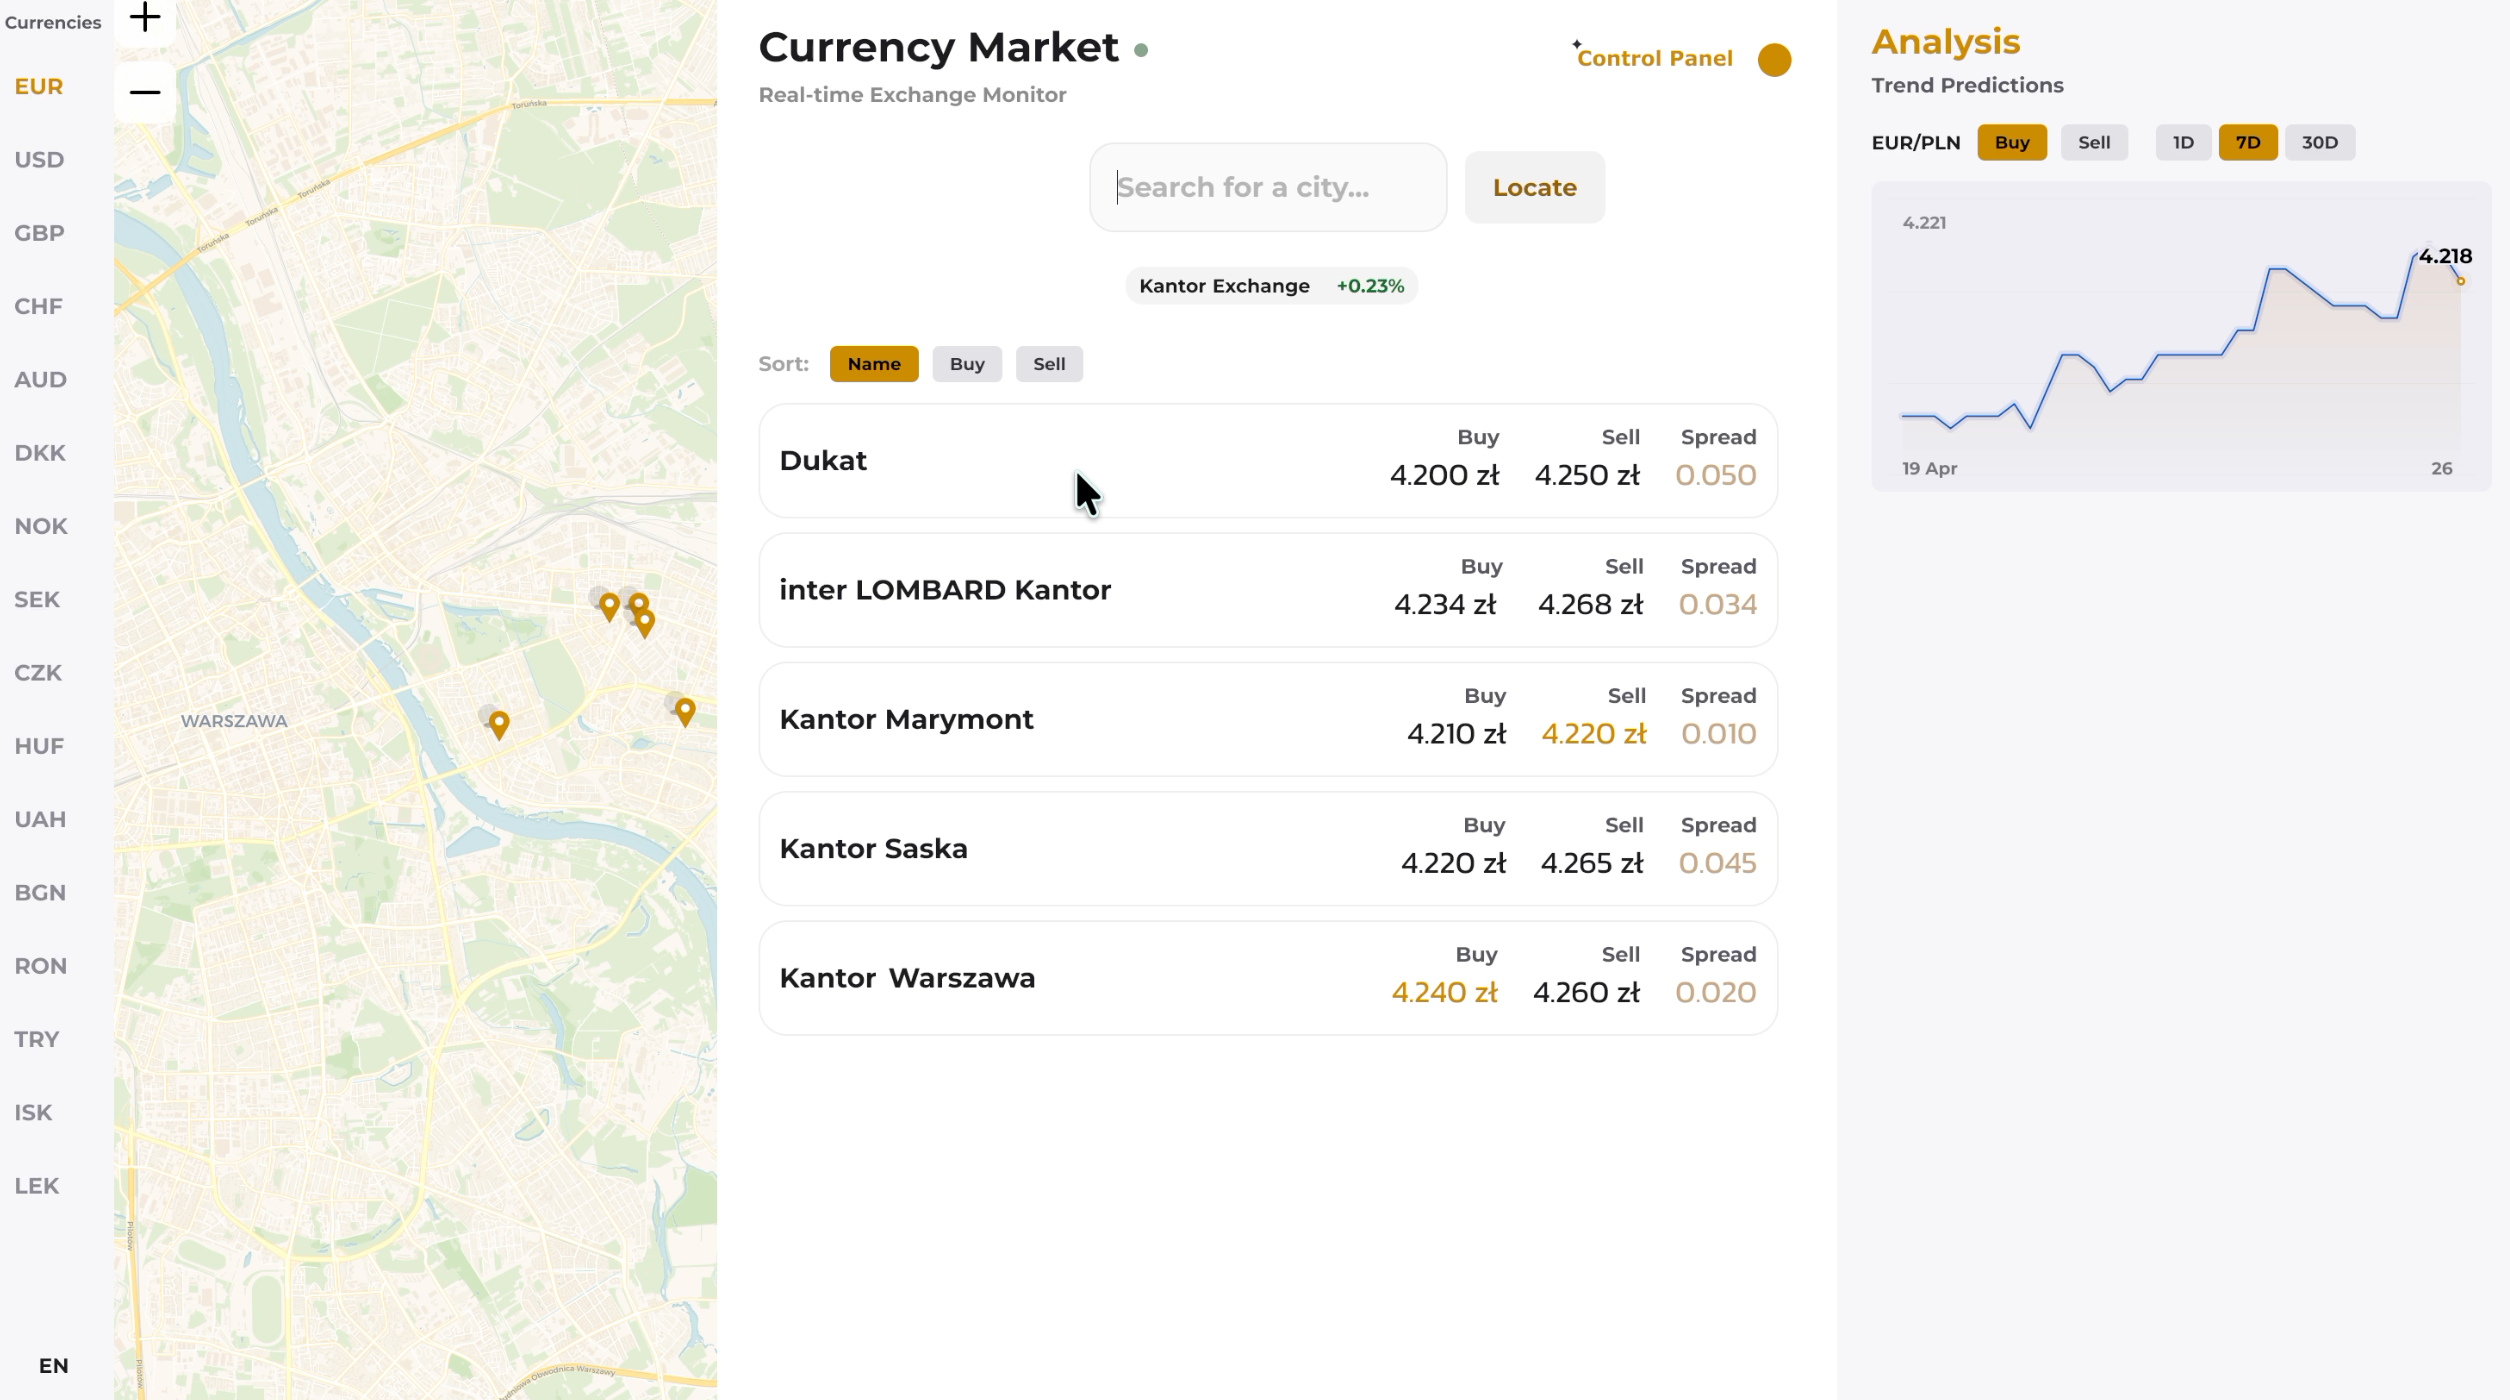
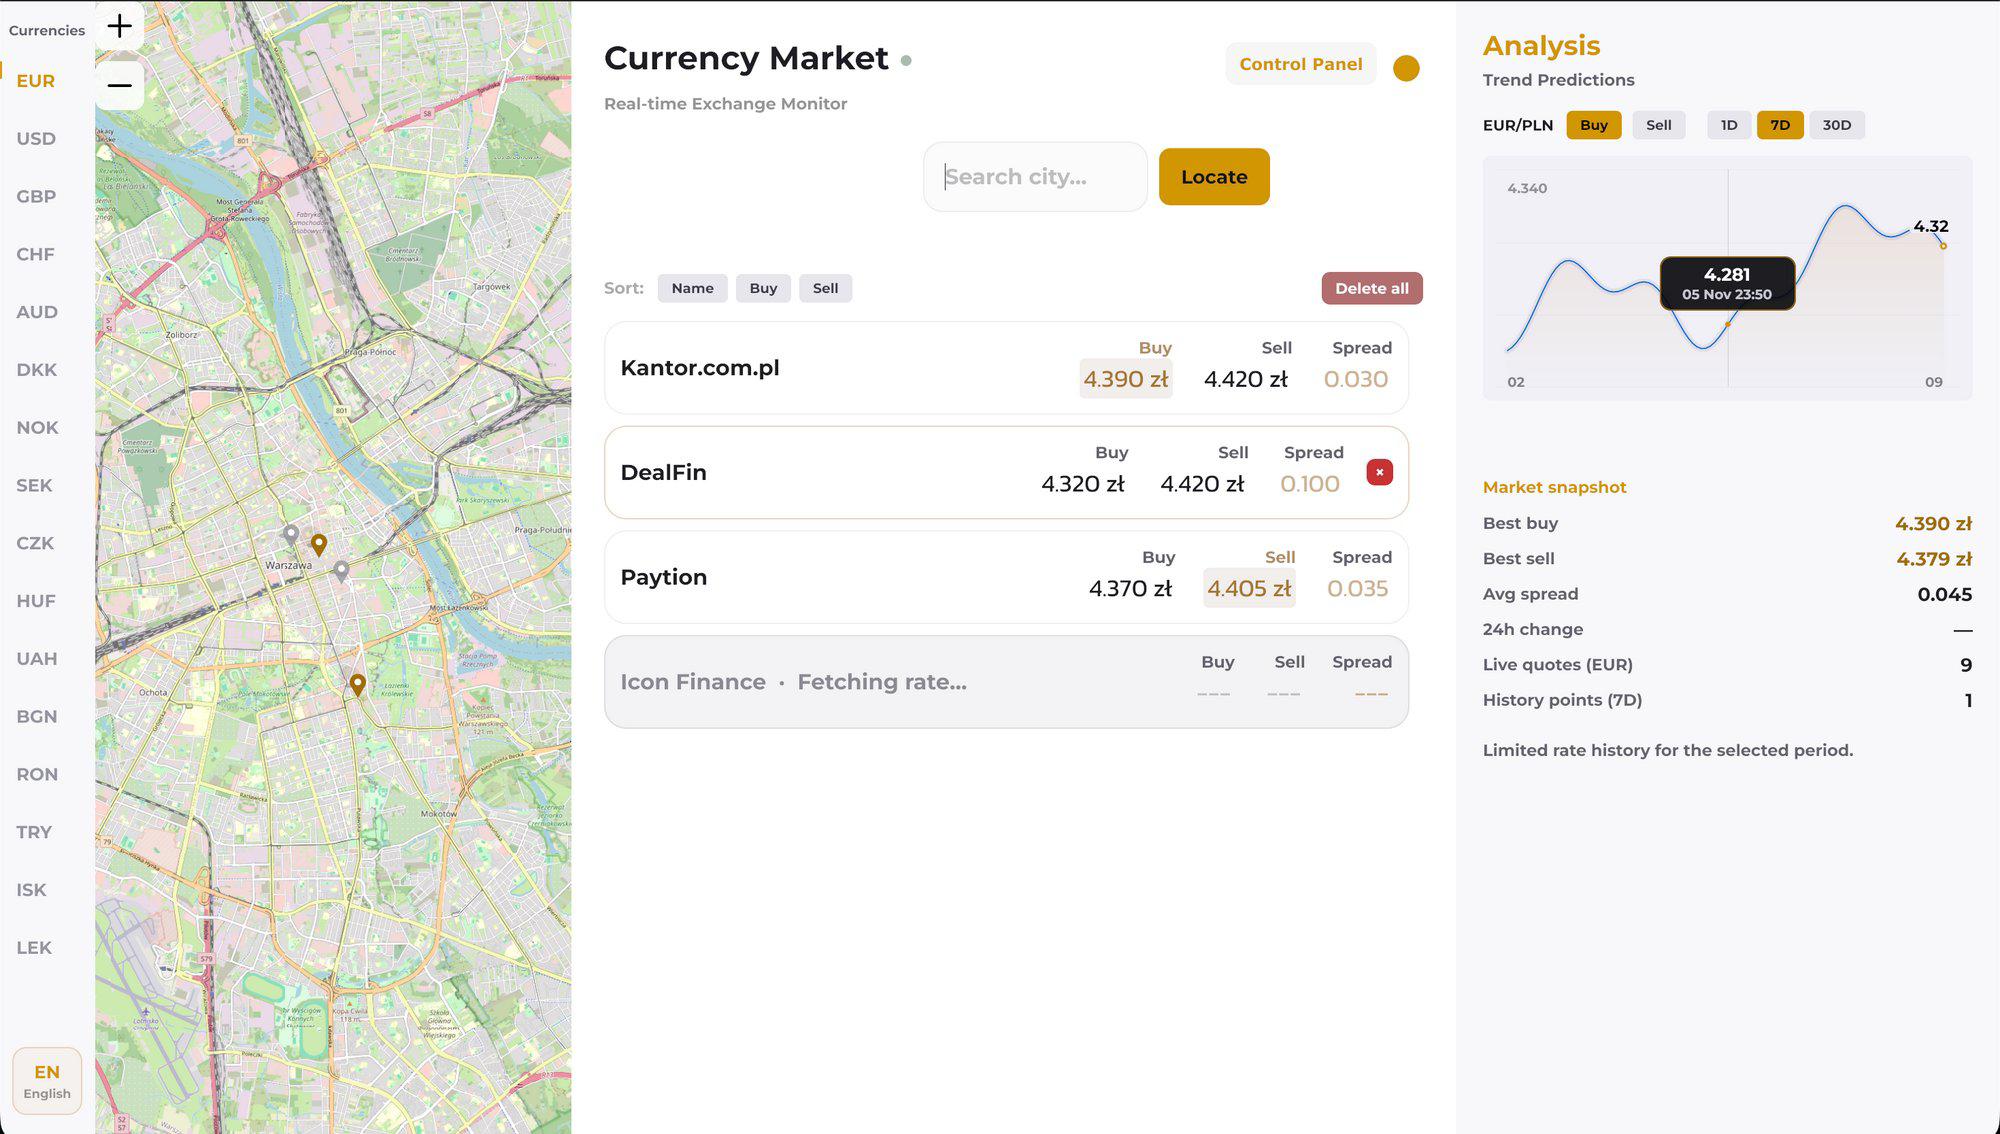
Portfolio v.51

diff --git a/src/lib/translations.ts b/src/lib/translations.ts
@@ -116,6 +116,16 @@ export const translations = {
           "Dostarcza wyjaśnialne oceny warunków i 9-dniowy trend sezonowy dzięki wykorzystaniu Go, PostGIS oraz UI w Astro opartym na Tauri.",
         tech: ["Go", "PostGIS", "Tauri", "Astro", "Rust"],
       },
+      firmlens: {
+        title: "FirmLens",
+        role: "Inżynieria bezpieczeństwa / Rust & Full-Stack",
+        constraint:
+          "Całkowity brak uruchamiania badanego firmware'u oraz zasada redaction-by-construction: poświadczenia i klucze prywatne nigdy nie trafiają do logów, raportów ani UI.",
+        desc: "Deterministyczny zestaw narzędzi do statycznej analizy bezpieczeństwa firmware'u IoT i SmartHome, wykrywający zahardkodowane poświadczenia, klucze i niebezpieczne konfiguracje.",
+        impact:
+          "Łączy niezależny silnik w Rust, izolowaną ekstrakcję Binwalk v3, lokalne API w Axum oraz pulpit analityczny w React z mapowaniem na OWASP IoT i ETSI EN 303 645.",
+        tech: ["Rust", "Security", "IoT Firmware", "Axum", "React"],
+      },
       honeypot: {
         title: "Honeypot",
         role: "Bezpieczeństwo / Operacje",
@@ -343,6 +353,16 @@ export const translations = {
         impact:
           "Delivers explainable condition scores and a 9-day season trend using Go, PostGIS, and an Astro UI with a Tauri desktop wrapper.",
         tech: ["Go", "PostGIS", "Tauri", "Astro", "Rust"],
+      },
+      firmlens: {
+        title: "FirmLens",
+        role: "Security Engineering / Rust & Full-Stack",
+        constraint:
+          "Zero live execution and strict redaction-by-construction: secrets and cryptographic keys are never leaked in logs, reports, or UI.",
+        desc: "Deterministic static security analysis toolkit detecting hardcoded credentials, exposed keys, and unsafe configurations in IoT firmware.",
+        impact:
+          "Combines a high-performance Rust core engine, sandboxed Binwalk v3 extraction, local Axum API, and a React dashboard mapped to OWASP IoT and ETSI EN 303 645.",
+        tech: ["Rust", "Security", "IoT Firmware", "Axum", "React"],
       },
       honeypot: {
         title: "Honeypot",
